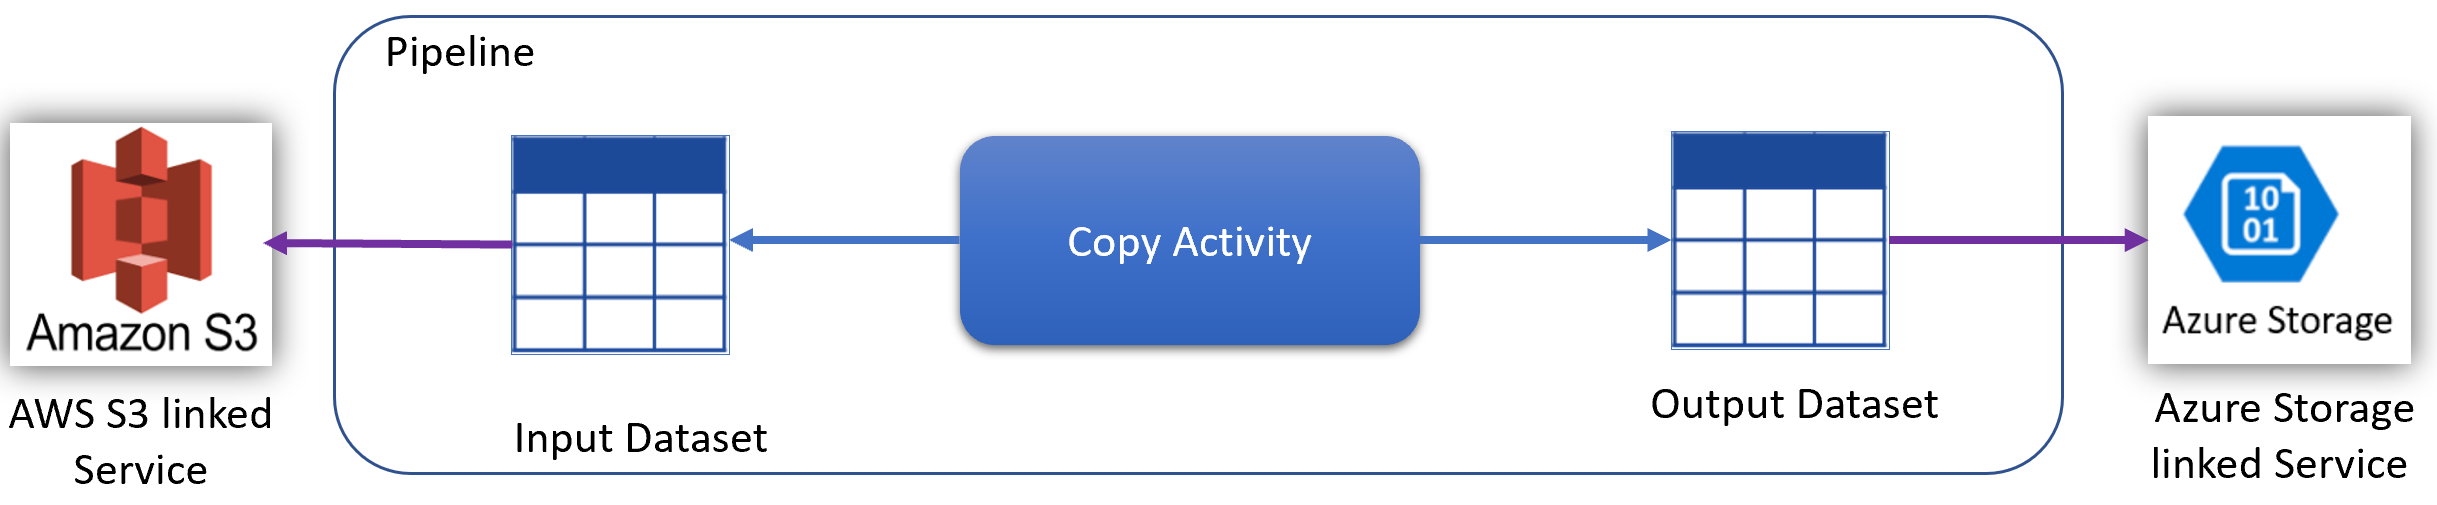
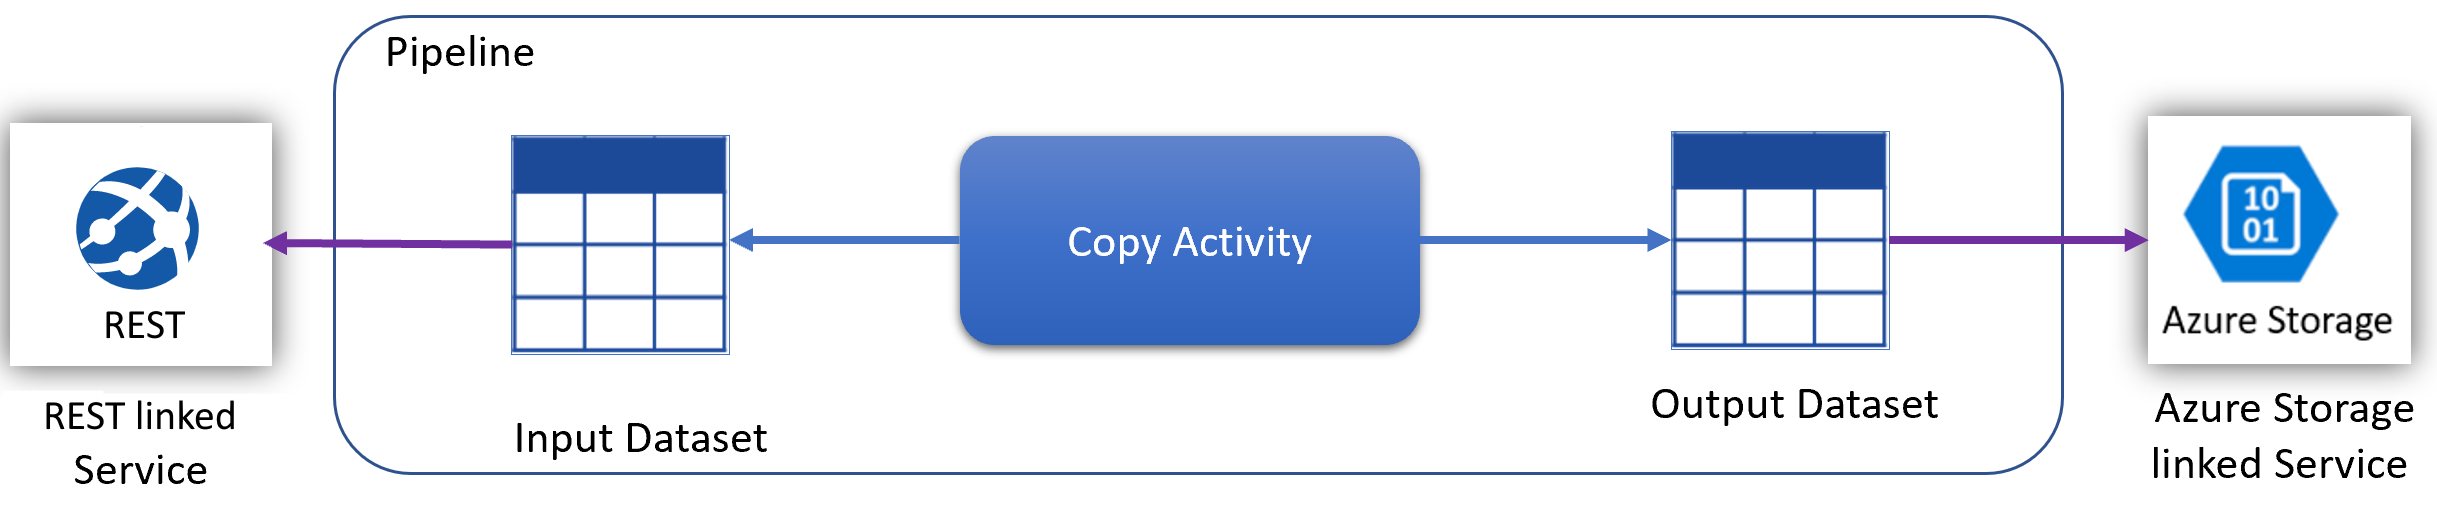
reviewed doc

Changed region(s): [[0.0, 0.2376, 0.1247, 0.7129], [0.0, 0.7723, 0.1247, 0.8614]]

diff --git a/_posts/2019-12-13-adfv2-rest-api-part2-ingest-data.md b/_posts/2019-12-13-adfv2-rest-api-part2-ingest-data.md
@@ -7,46 +7,46 @@ keywords: Azure Data Factory REST API COPY ACTIVITY
 published: true 
 ---
 
-In this blog post I would like to show of how to add and configure a Copy Activity which will ingest REST data and store it in a data lake. 
-The REST API we are use is secured with OAUTH2 authentication. It requires a Bearer token to be obtained. Such technique was already demonstrated by me in a previous post of the series: <a href='/2019/adfv2-rest-api-part1-oauth2'>Azure Data Factory and REST APIs - Dealing with oauth2 authentication</a>
+In this blog post, I would like to show how to add and configure a Copy Activity which will ingest REST data and store it in a data lake. 
+The REST API used as an example in this post is secured with OAUTH2 authentication. It requires a Bearer token to be obtained and passed as an authorization header. Such a technique was already demonstrated by me in a previous post of the series: <a href='/2019/adfv2-rest-api-part1-oauth2'>Azure Data Factory and REST APIs - Dealing with oauth2 authentication</a>.
 
 #### Prerequisites
 
-The walkthrough information of this post does not cover creation of a storage account. In order to proceed, an Azure Data Lake gen2 account has to be created because it will be used as a sink destination later by a Copy activity.
+This post does not cover the creation of a storage account. To proceed, an Azure Data Lake gen2 blob container has to be created because it will be used later as a sink destination by a Copy activity.
 
 ### How Copy activity works
 
-To use the Copy activity in Azure Data Factory, following steps to be done:
- -	Create linked services for the source data store and the sink data store
+To use a Copy activity in Azure Data Factory, following steps to be done:
+ -	Create linked services for the source data and the sink data stores
  -	Create datasets for the source and sink
  -	Create a pipeline with the Copy activity
 
-Copy activity uses input dataset to fetch data from a source linked service and copies it using an Output Dataset to a sink linked service
+The Copy activity uses input dataset to fetch data from a source linked service and copies it using an output dataset to a sink linked service
 
 This process can be illustrated as a visual flow:
  
 <img src="/assets/images/posts/adf-rest-p2/copy_activity_example.png" alt="Step 0" />
 
 
-In the example picture two linked services created: Amazon S3 and Azure Storage
-They act like connection managers in SSIS.
+In the example picture two **linked services** created: REST and Azure Storage
+They act just like connection managers in SSIS.
 
-The next abstraction is a Dataset. The Dataset is a named view of data that simply points or references the data that has to bed used in activities as inputs and outputs.
+The next abstraction is a **Dataset**. The Dataset is a named view of data that simply points or references the data that has to bed used in activities as inputs and outputs. SSIS has analogs in its dataflow - various sources and destinations.
 
-And a final piece – Copy activity. It is a generic task that copies data among various data stores located on-premises and in the cloud.
+And the final piece – **Copy activity**. It is a generic task that copies data among various data stores located on-premises and in the cloud. 
 
 
 ### Making Copy Activity working
-To make a Copy activity working it is not enough just drop such object to a canvas, because Linked Services and Datasets are also requred. Following few steps covers these actions.
+To make a Copy activity working all three types of objects have to be created one by one, just as described in the following few steps:
 
 ##### Step 1. Create and Configure Linked Services
 
-Go to Connections page (1) and click on "+ New" to create linked services:
+Go to Connections page (1) and click on "+ New" to create two linked services:
 
 
 <img src="/assets/images/posts/adf-rest-p2/step1-1.png" alt="Step 1.1" />
 
-**Linked Service to a Data Source:**
+**Linked Service 1, refers to a Data Source:**
 
  - Data Store: REST
  - Name: LS_REST_EOL (1)
@@ -56,13 +56,13 @@ Go to Connections page (1) and click on "+ New" to create linked services:
 
 <img src="/assets/images/posts/adf-rest-p2/step1-2.png" alt="Step 1.2" />
 
-**Linked Service to a Data Sink:**
+**Linked Service 2, refers to a Data Sink:**
 
  - Data Store: Azure Data Lake Storage Gen2
  - Name: LS_ADLS_EOL (1)
  - Authentication Method: Account Key (2)
  - Account Selection Method: From Azure Subscription (3)
- - Choose right subscription and account name (4)
+ - Choose the right subscription and account name (4)
  
 <img src="/assets/images/posts/adf-rest-p2/step1-3.png" alt="Step 1.3" />
 
@@ -70,7 +70,7 @@ Go to Connections page (1) and click on "+ New" to create linked services:
 
 ##### Step 2. Create and Configure Datasets
 
-In this step two datasets to be created. One per corresponding linked service. Therefore, source and sink datasets. To create them, click on a three dots that stands next to a Datasets in left pane and then choose "New dataset":
+In this step two datasets to be created. One per corresponding linked service. Therefore, source and sink datasets. To create them, click on three dots that stands next to a Datasets in the left pane and then choose "New dataset" to add source and sink objects:
 
 <img src="/assets/images/posts/adf-rest-p2/step2-1.png" alt="Step 2.1" />
 
@@ -78,7 +78,7 @@ In this step two datasets to be created. One per corresponding linked service. T
 ###### 1. Create a source dataset:
   -	In a Data Store wizard search for a “REST”
   - In a General tab give a name: “DS_SRC_REST”
-  - In a Connection tab choose a linked service: LS_REST_EOL and set a relative url: /api/read/Hosting.svc/ContractStatistics
+  - In a Connection tab choose a linked service: LS_REST_EOL and set a relative URL: /api/read/Hosting.svc/ContractStatistics
 
 <img src="/assets/images/posts/adf-rest-p2/step2-2.png" alt="Step 2.2" />
 
@@ -87,7 +87,7 @@ In this step two datasets to be created. One per corresponding linked service. T
   - Choose the format type: Delimited Text
   - Set a name: “DS_SINK_ADLS”
   - Choose Linked Service "LS_ADLS_EOL"
- - File Path: The first field receives a storage container name. In my case it is "dwh". The second field is for a folder name -  “eol” and “contractstatitistics.csv” is a file name. Therefore, the full path is: ```/dwh/eol/contractstatitistics.csv```
+ - File Path: The first field receives a storage container name. In my case, it is "dwh". The second field is for a folder name -  “eol” and “contractstatitistics.csv” is a file name. Therefore, the full path is: ```/dwh/eol/contractstatitistics.csv```
   - Enable a checkbox: “First row as header”
   - Choose None for “Import Schema”
 
@@ -95,7 +95,7 @@ In this step two datasets to be created. One per corresponding linked service. T
 
 ##### Step 3. Create a Copy Activity
 
- 1.	Drop a Copy activity on a canvas of a pipeline and give it a name "Ingest REST Data"
+ 1.	Drop a Copy activity on canvas of a pipeline and give it a name "Ingest REST Data"
  2.	Connect exiting "Login" activity with a just added one: 
 
 <img src="/assets/images/posts/adf-rest-p2/step3-1.png" alt="Step 3.1" />
@@ -117,24 +117,24 @@ In this step two datasets to be created. One per corresponding linked service. T
 
 ##### Step 4. Run a test execution
 
-After setting up all depending objects it is a time to perform a test execution to validate that we are on a right track. Just like on a screenshot below, a button Debug to be pressed. This will trigger execution of the pipeline:
+After setting up all dependent objects it is time to perform a test execution to validate that we are on the right track. Just like on a screenshot below, a button Debug to be pressed. This will trigger the execution of the pipeline:
 
 <img src="/assets/images/posts/adf-rest-p2/step4-1.png" alt="Step 4.1" />
 
  
  1.	Click on Debug (1)
- 2.	Navigate to an output tab (2) and wait when all activities of the pipeline have status other than “In Progress” or “Queued”
- 3.	When the execution of a Copy activity is finished, click on a details button (3). This will open a modal window with a detailed information of a copy activity:
+ 2.	Navigate to an output tab (2) and wait when all activities of the pipeline have a status other than “In Progress” or “Queued”
+ 3.	When the execution of a Copy activity is finished, click on details button (3). This will open a modal window with a detailed information of a copy activity:
 
     <img src="/assets/images/posts/adf-rest-p2/step4-2.png" alt="Step 4.2" />
 
-   The window shows a flow of the data and it shows one issue: the activity read 1.8 MB from a REST, but written few bytes only.
+   The window shows a flow of the data and it shows one issue: the activity read 1.8 MB from a REST, but written a few bytes only.
 
    Storage Explorer confirms - the new empty file was created:
 
    <img src="/assets/images/posts/adf-rest-p2/step4-3.png" alt="Step 4.3" />
 
-   Such output result can be explained by fact that Mapping and Pagination are still not configured in a Copy activity. These two actions are going to be covered in the next blog post.
+   Such an output result can be explained by the fact that Mapping and Pagination are still not configured in a Copy activity. These two actions are going to be covered in the next blog post.
 
 
 
